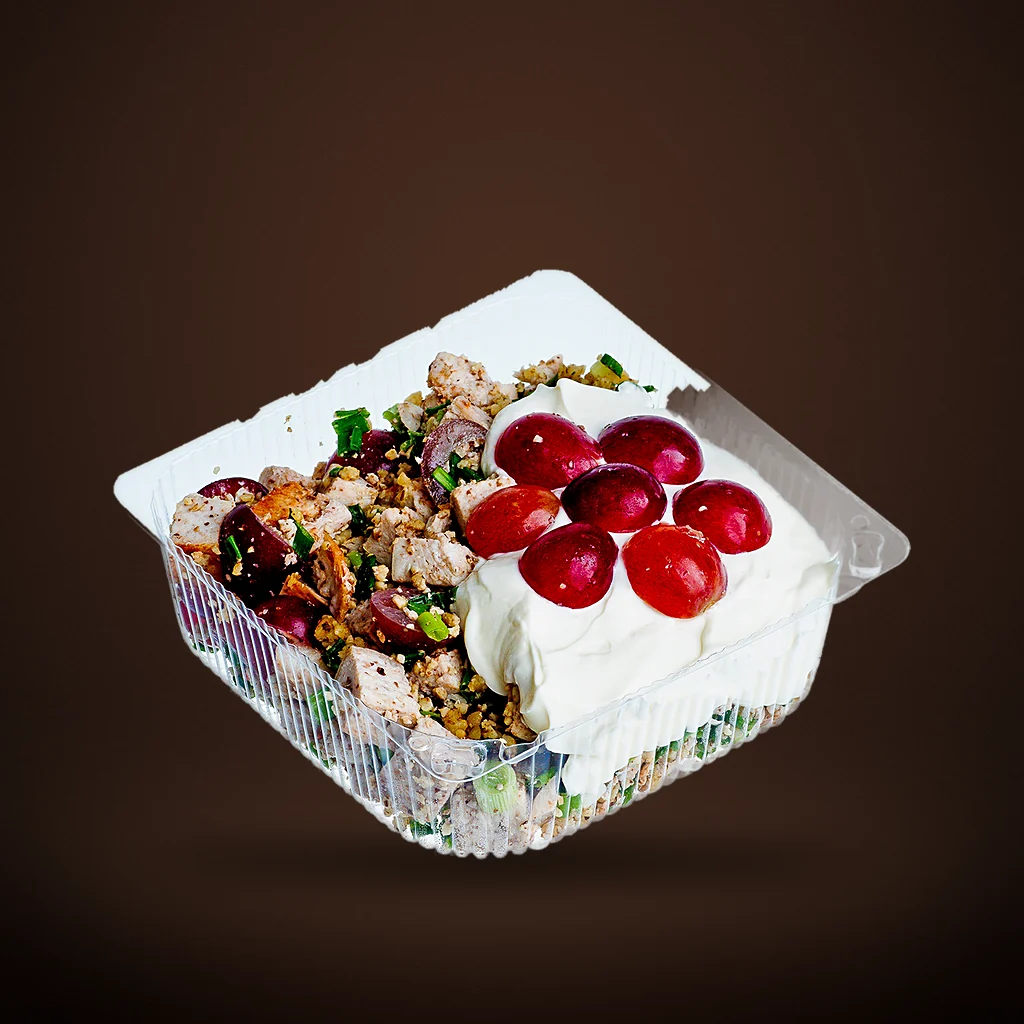
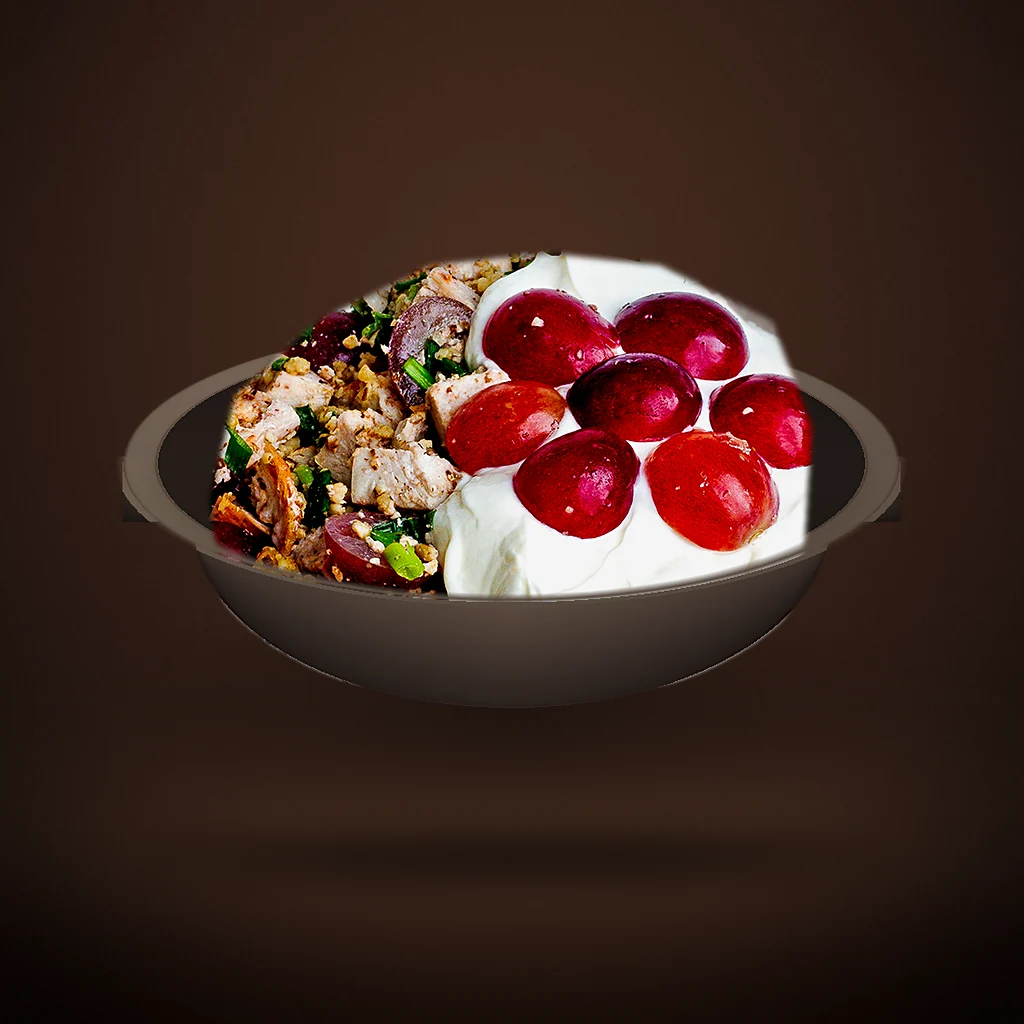
Plate the salads, ready meals and semi-finished products

Changed region(s): [[0.0938, 0.2188, 0.9062, 0.8438]]

diff --git a/skin/README.md b/skin/README.md
@@ -72,6 +72,8 @@ python skin/hero_choc.py           # rebuild hero-bg.jpg, hero-cake.webp, about.
 
 Series v9: every catalog item is a neural cutout placed on the same dark scene — cocoa ground, warm light from above, a pool of light on the table, a contact shadow. Ossetian pies shot at the bakery are composed on the same scene. Files live in `../assets/products/` and are named by product id: `747-v9.webp` (1024) and `747-v9-640.webp`.
 
+Salads, ready meals and semi-finished products are re-plated: the food is masked out of its plastic tray and composed into a dark ceramic bowl or plate before it goes onto the scene (`build/plates.py` next to `photos_v9.py`).
+
 On the live site upload them into the product cards; the file name is the element id. The demo swaps them in with a script.
 
 ## Hero
